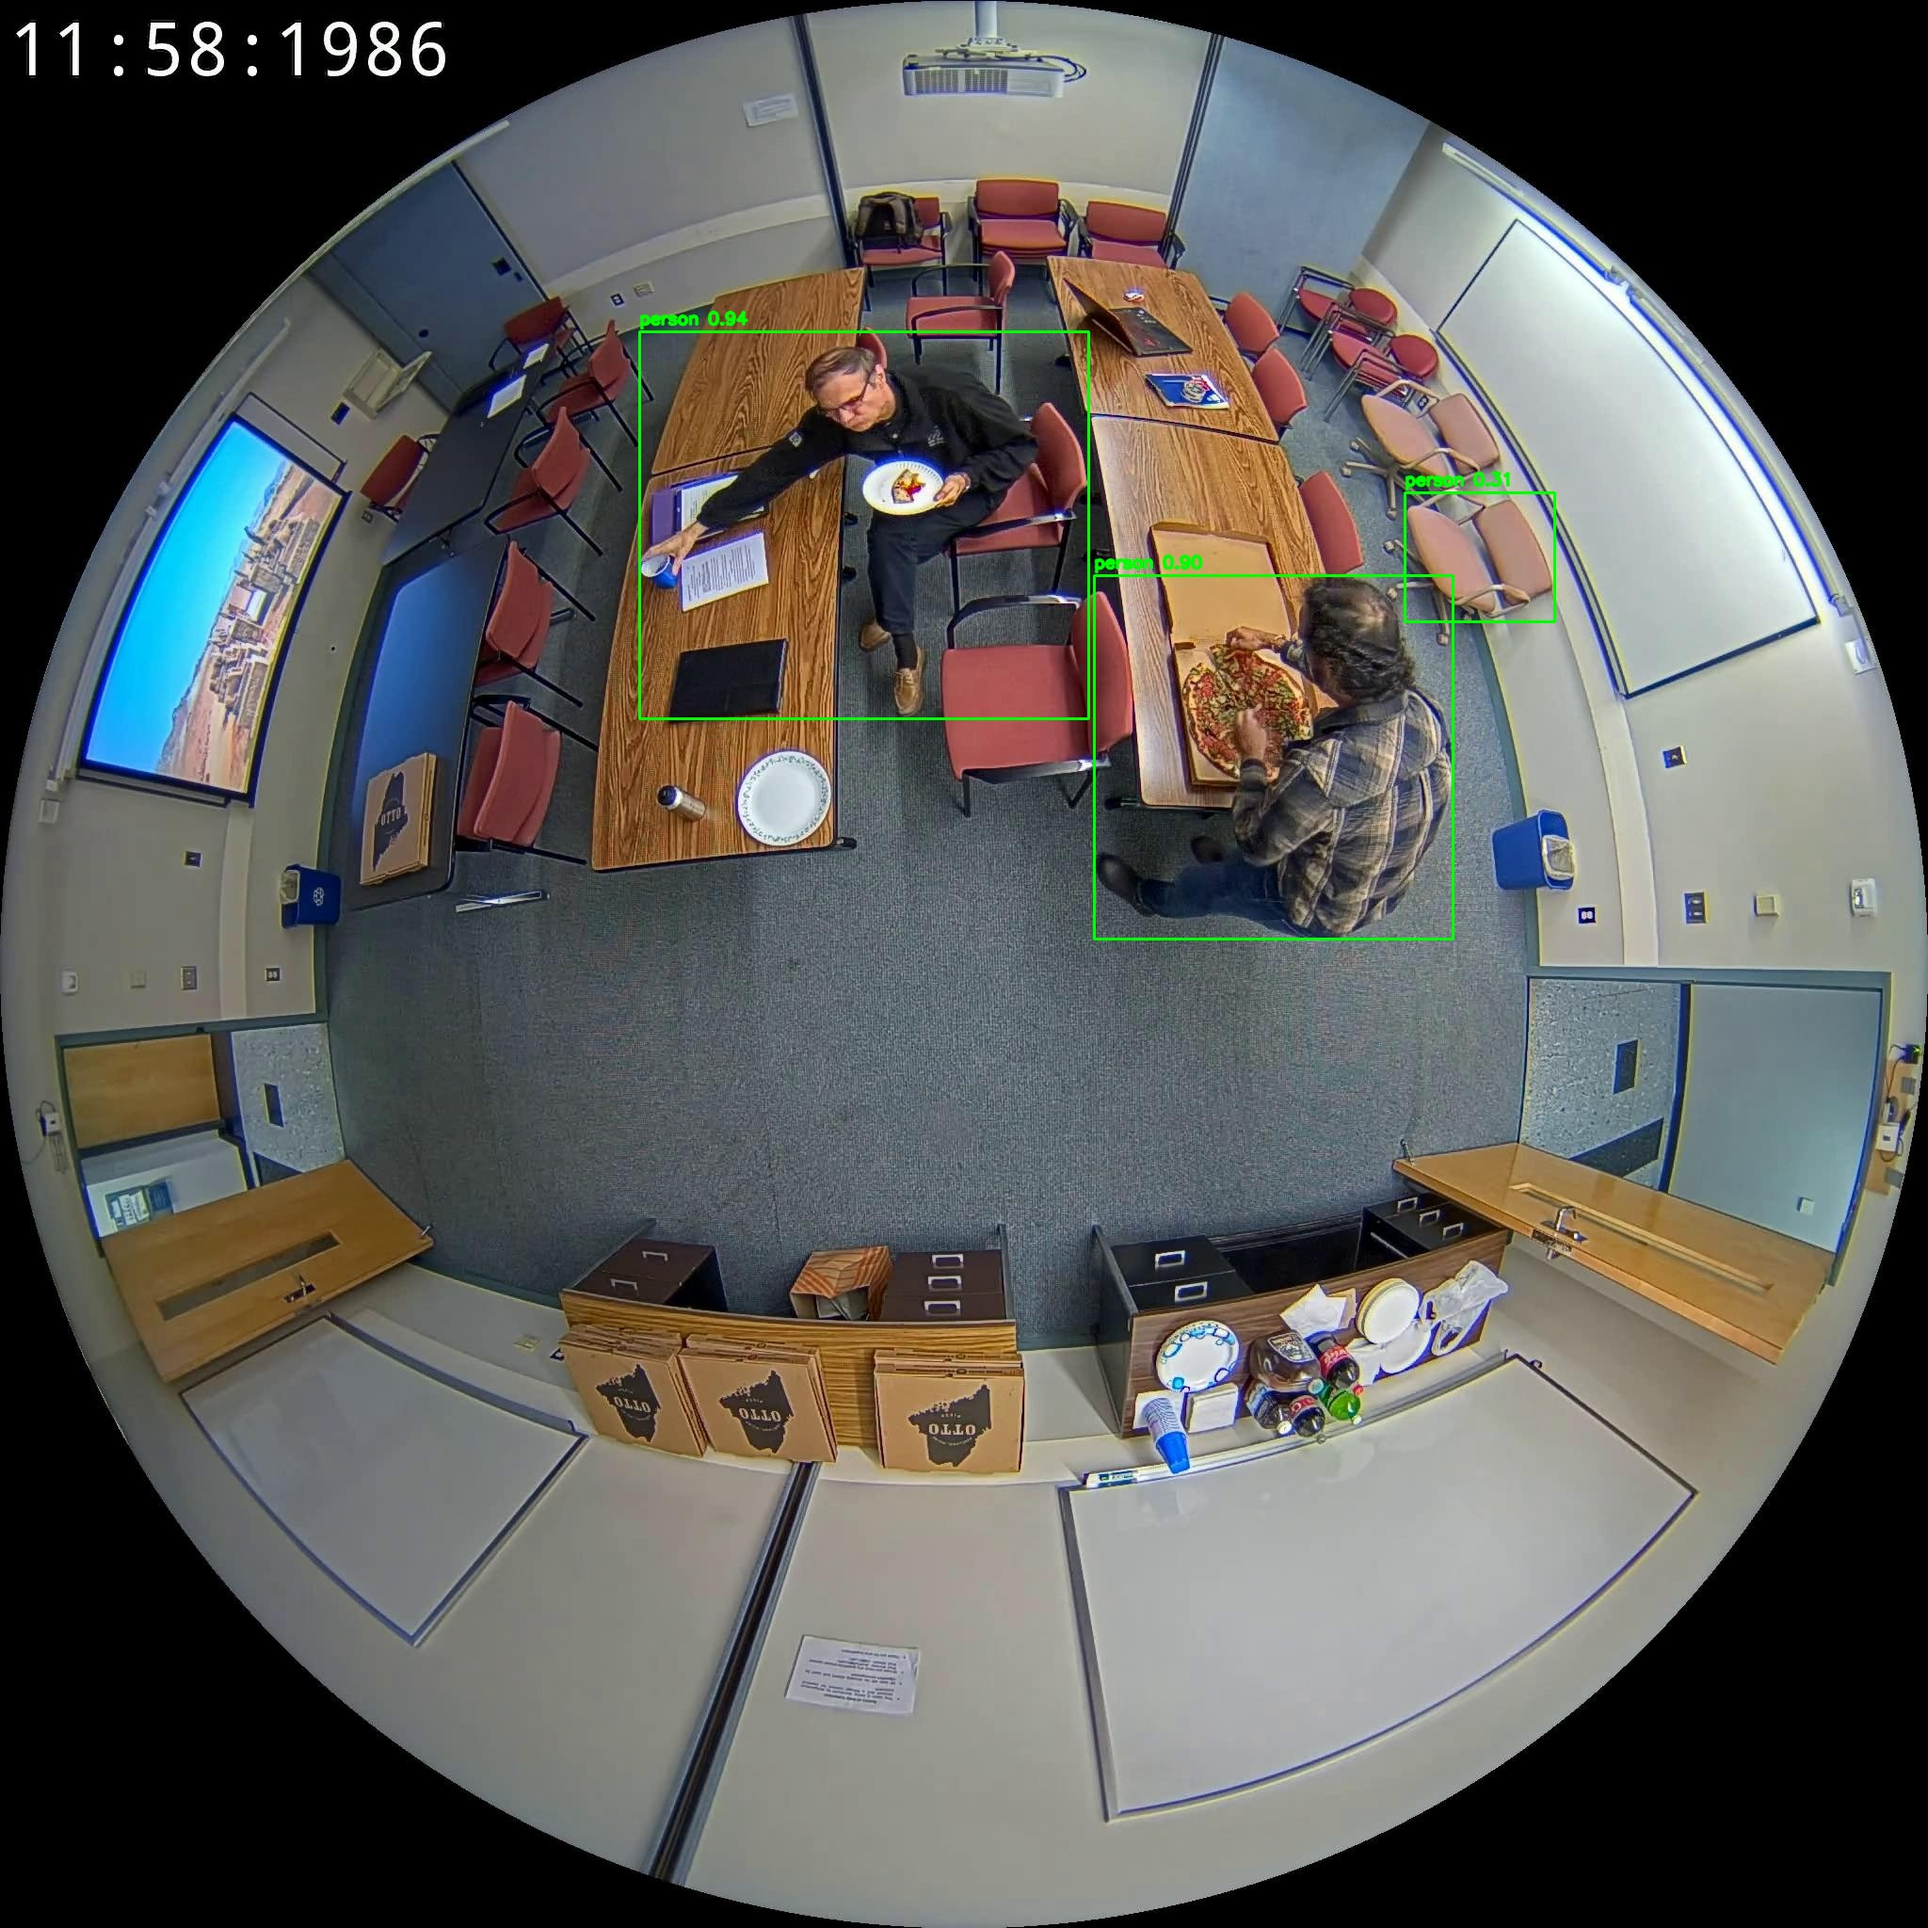
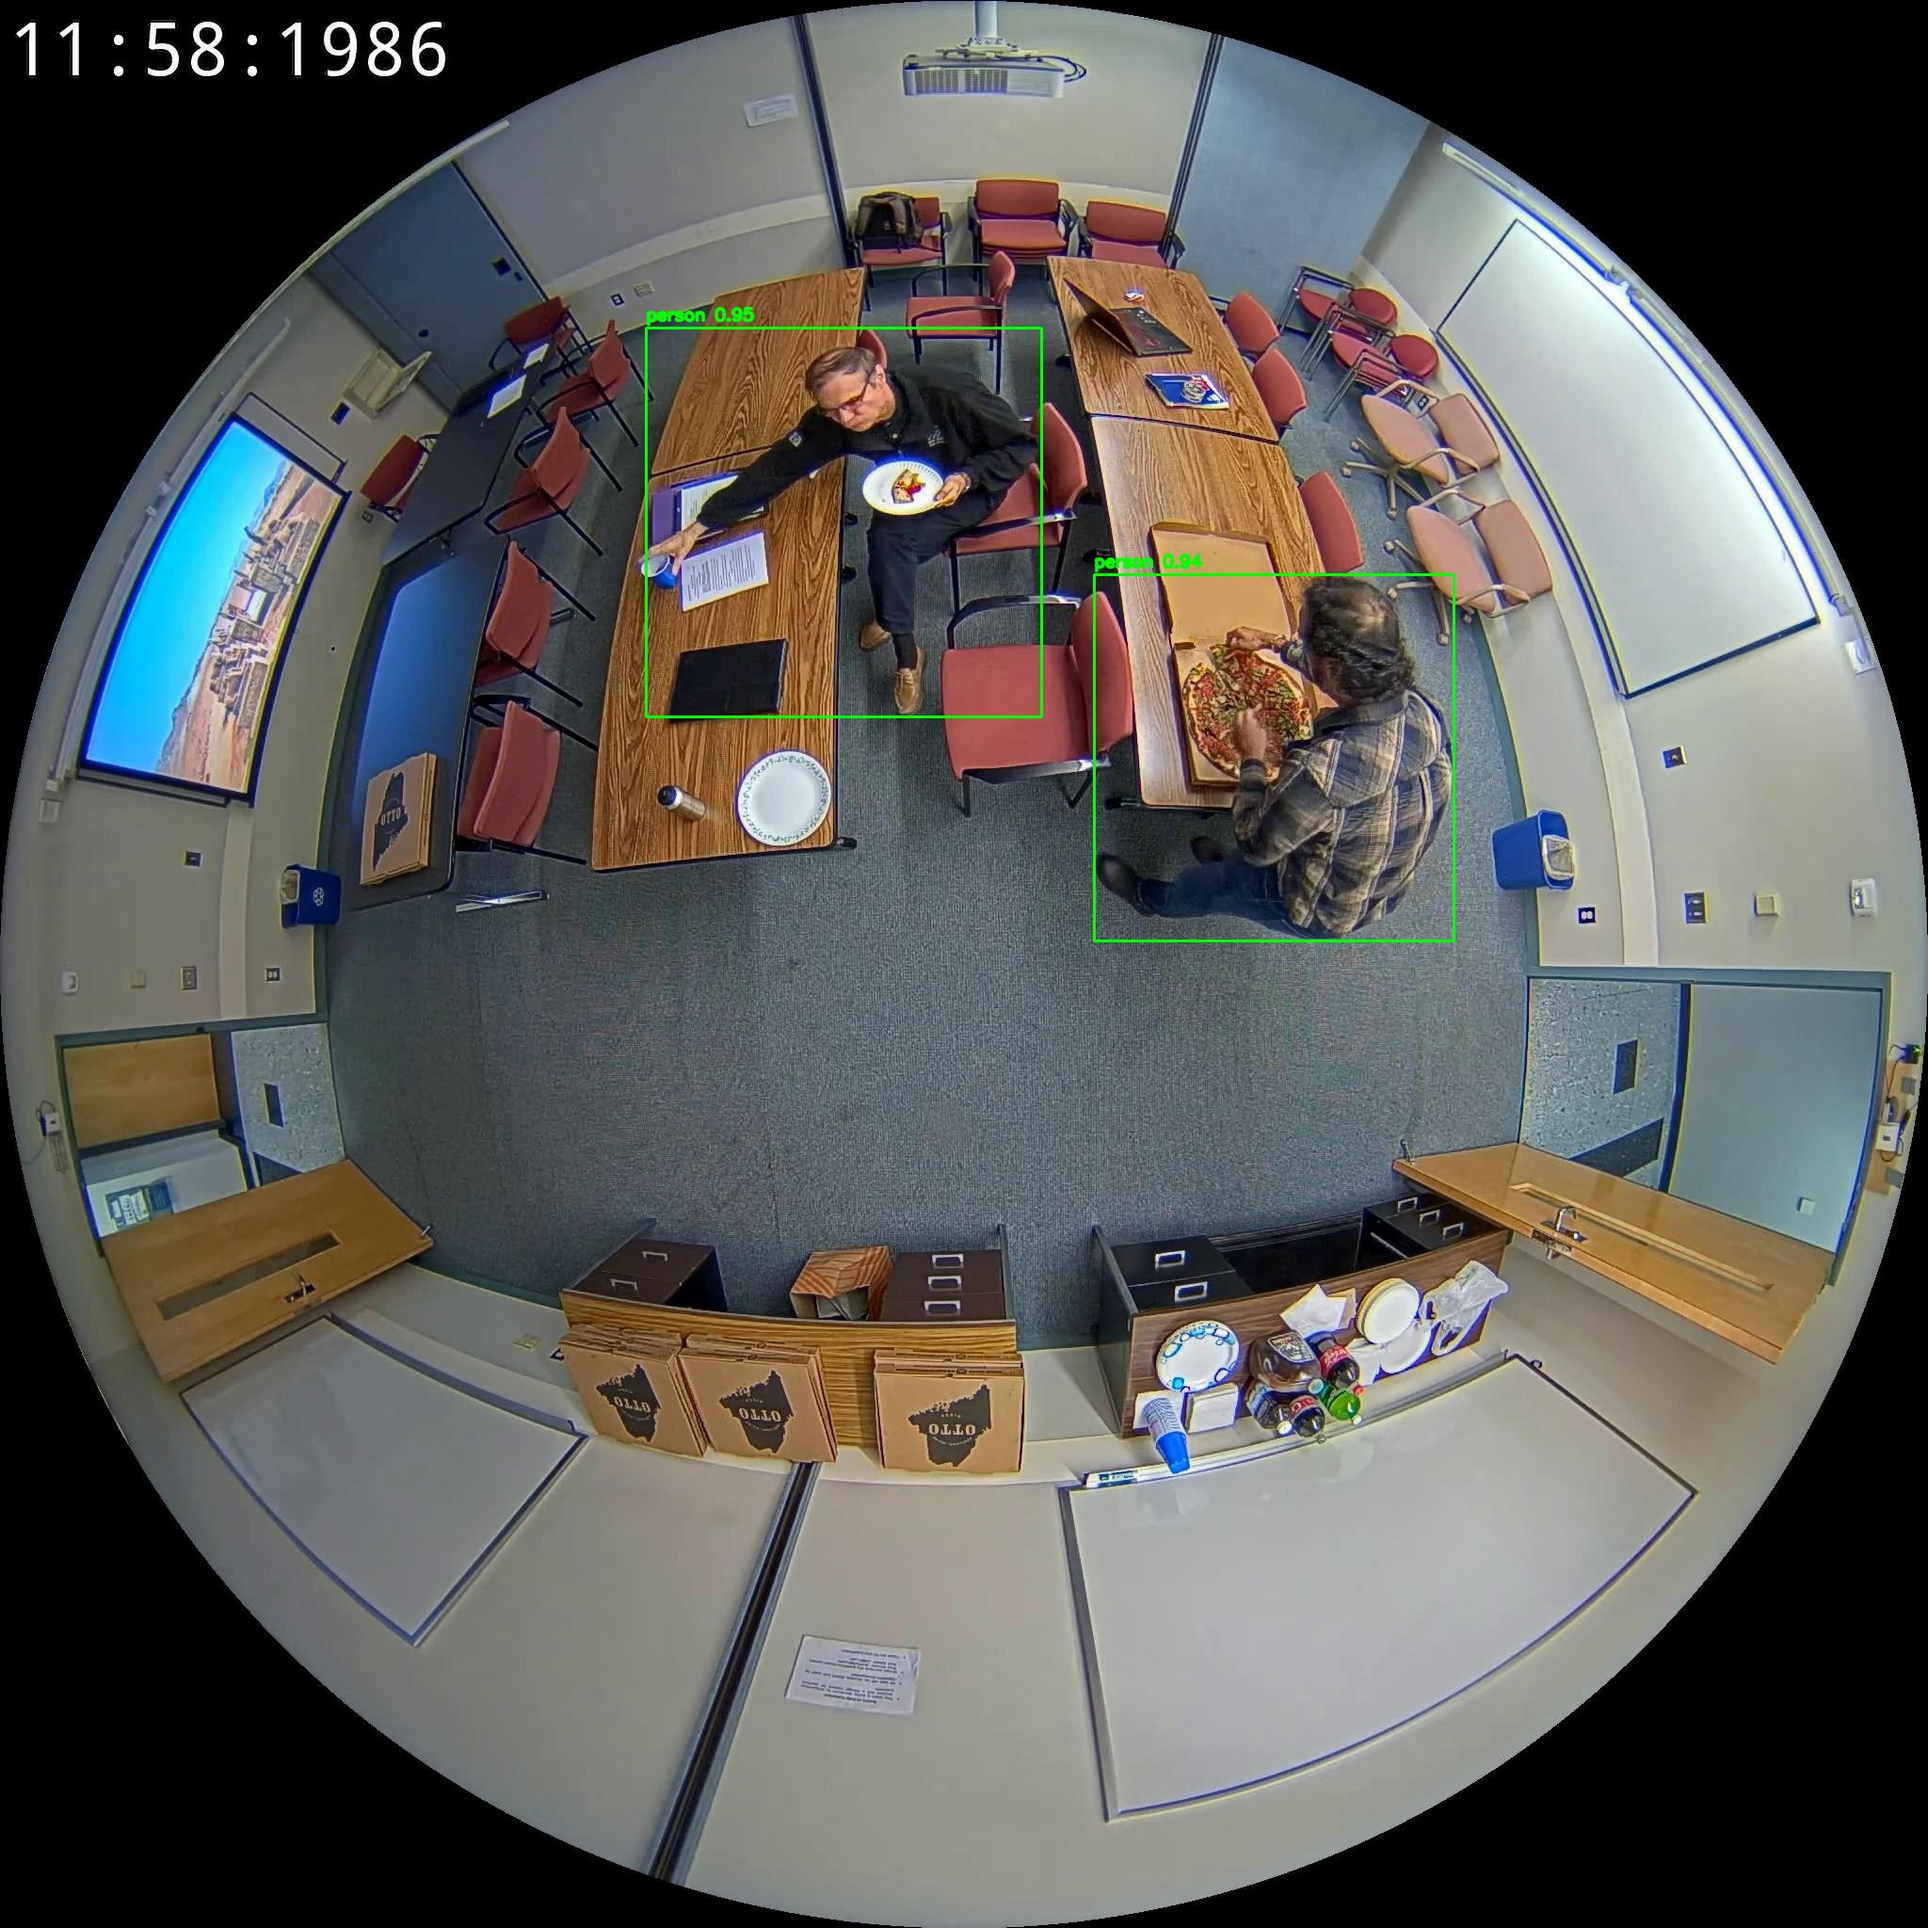
追加実験終了

diff --git a/workspace/experiments/best_model_with_person_detected/yolo.py b/workspace/experiments/best_model_with_person_detected/yolo.py
@@ -46,7 +46,9 @@ def draw_detections(image_bgr, detections: list[dict[str, Any]]) -> None:
         )
 
 
-def detect_one(model: YOLO, image_path: Path, confidence_threshold: float) -> dict[str, Any]:
+def detect_one(
+    model: YOLO, image_path: Path, confidence_threshold: float
+) -> dict[str, Any]:
     image_bgr = cv2.imread(str(image_path), cv2.IMREAD_COLOR)
     if image_bgr is None:
         raise ValueError(f"failed to read image: {image_path}")
@@ -100,7 +102,9 @@ def write_result(result: dict[str, Any], output_dir: Path) -> dict[str, Any]:
 
     result["rendered_image"] = str(rendered_path)
     result["detections_json"] = str(json_path)
-    json_path.write_text(json.dumps(result, ensure_ascii=False, indent=2), encoding="utf-8")
+    json_path.write_text(
+        json.dumps(result, ensure_ascii=False, indent=2), encoding="utf-8"
+    )
     return result
 
 
